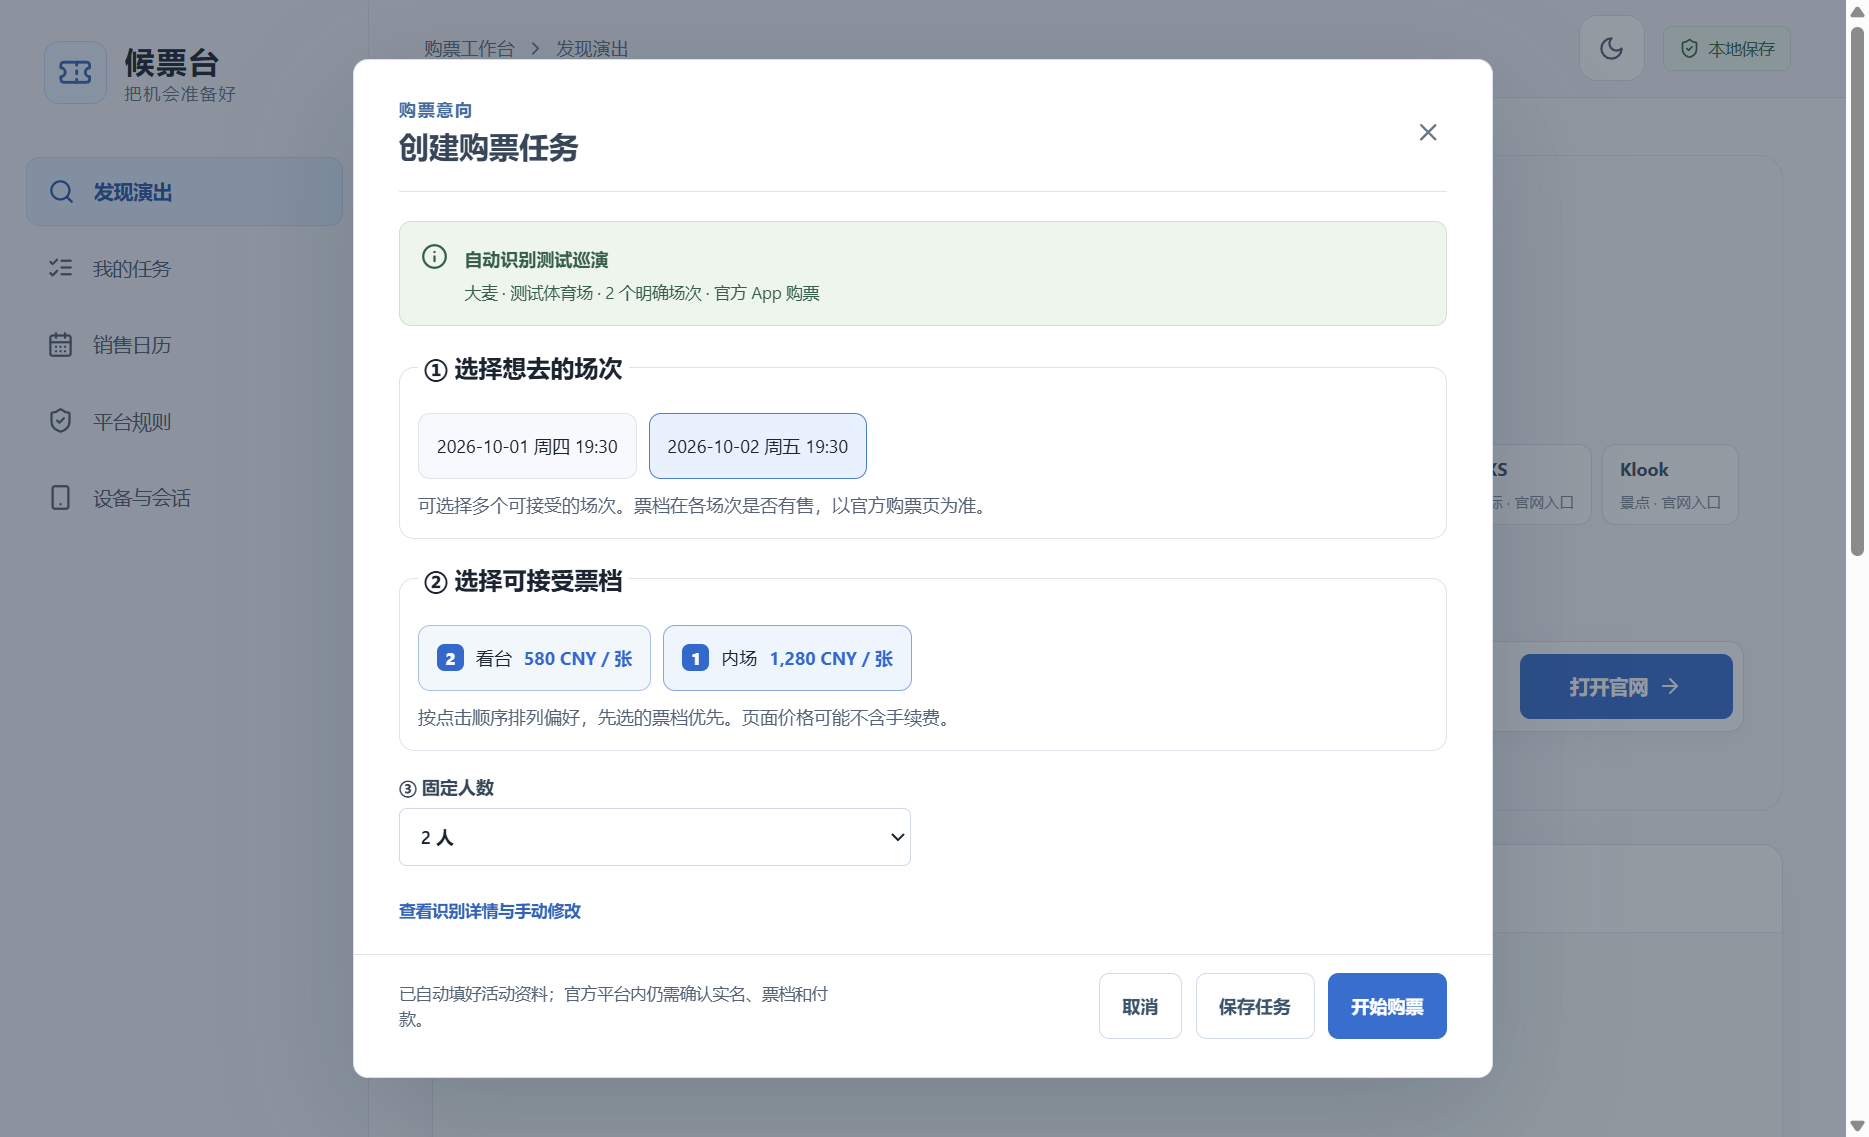
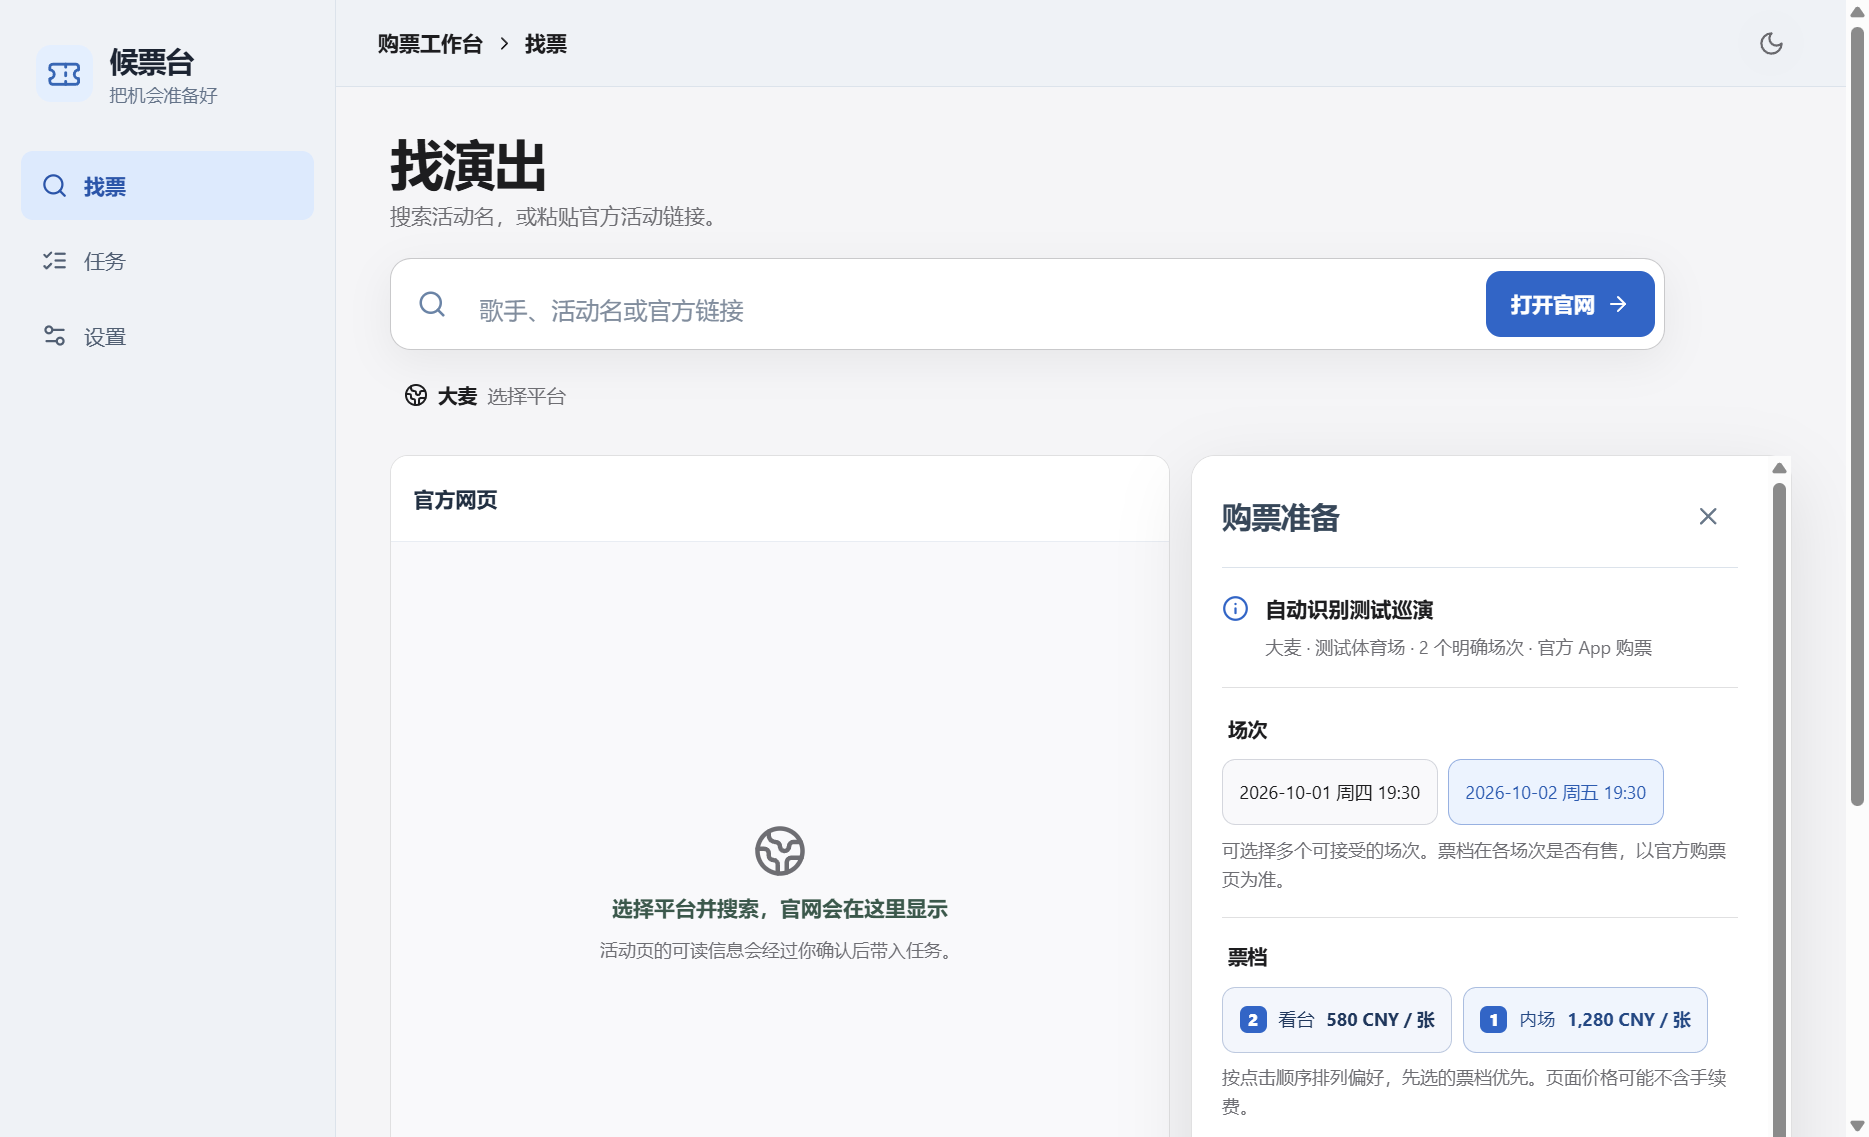
release: complete simplified ticket copilot UI

diff --git a/src/App.tsx b/src/App.tsx
@@ -1166,6 +1166,14 @@ function EventDetail({
   const pendingDeadline = pendingPaymentAttempts(event.attempts)
     .filter((attempt) => attempt.paymentDeadline)
     .sort((a, b) => a.paymentDeadline!.localeCompare(b.paymentDeadline!))[0]?.paymentDeadline;
+  const focusSale = event.opportunities
+    .filter((item) => item.status !== 'completed' && item.status !== 'missed')
+    .sort((a, b) => a.startsAt.localeCompare(b.startsAt))[0];
+  const focusDelta = focusSale ? Date.parse(focusSale.startsAt) - clock : null;
+  const focusMode = Boolean(
+    pendingDeadline ||
+    (focusDelta !== null && focusDelta >= -2 * 60 * 60_000 && focusDelta <= 7 * 24 * 60 * 60_000),
+  );
   const localZone = Intl.DateTimeFormat().resolvedOptions().timeZone;
   const platformGuidance = guide.find((item) => item.id === event.platform);
   const decision = chooseTier(
@@ -1234,7 +1242,7 @@ function EventDetail({
     }
   }
   return (
-    <>
+    <div className={`event-detail${focusMode ? ' focus-mode' : ''}`}>
       <button className="back-link" onClick={onBack}>
         ← 返回任务列表
       </button>
@@ -1285,6 +1293,45 @@ function EventDetail({
           </button>
         </div>
       </div>
+      {focusMode && (
+        <section className="focus-status" aria-label="购票专注状态">
+          <div>
+            <span>
+              {pendingDeadline ? '待支付' : focusDelta && focusDelta > 0 ? '距离开始' : '已开始'}
+            </span>
+            <strong>
+              {pendingDeadline
+                ? '已有订单需要处理'
+                : focusDelta && focusDelta > 0
+                  ? `${Math.floor(focusDelta / 86400000)}天 ${String(Math.floor((focusDelta % 86400000) / 3600000)).padStart(2, '0')}:${String(Math.floor((focusDelta % 3600000) / 60000)).padStart(2, '0')}`
+                  : `${focusSale ? saleLabels[focusSale.type] : '官方机会'}进行中`}
+            </strong>
+            <small>
+              {pendingDeadline
+                ? `以官方订单页倒计时为准 · 本机记录 ${timeText(pendingDeadline, localZone)}`
+                : focusSale
+                  ? `${saleLabels[focusSale.type]} · ${timeText(focusSale.startsAt, focusSale.timeZone)} ${focusSale.timeZone}`
+                  : '以官方页面状态为准'}
+            </small>
+          </div>
+          <button
+            className="button primary"
+            onClick={() => {
+              if (pendingDeadline) setDetailTab('results');
+              else if (eventChannel === 'app_required' && event.platform === 'damai')
+                void onLaunchDamai().then(setPhoneStatus);
+              else void onOpenInside(event.id, focusSale?.id);
+            }}
+          >
+            {pendingDeadline
+              ? '处理订单'
+              : eventChannel === 'app_required'
+                ? '前往官方 App'
+                : '前往官方网页'}
+            <ArrowRight size={16} />
+          </button>
+        </section>
+      )}
       {event.sessions?.length ? (
         <div className="saved-sessions" role="list" aria-label="已选择的演出场次">
           {event.sessions.map((session) => (
@@ -1786,6 +1833,6 @@ function EventDetail({
           )}
         </div>
       </div>
-    </>
+    </div>
   );
 }

diff --git a/src/apple-ui.css b/src/apple-ui.css
@@ -233,6 +233,60 @@ a:focus-visible {
   font-size: 14px;
 }
 
+.focus-status {
+  display: flex;
+  align-items: center;
+  justify-content: space-between;
+  gap: 22px;
+  margin: 0 0 22px;
+  padding: 18px 20px;
+  color: #fff;
+  background: #1d1d1f;
+  border: 1px solid rgba(255, 255, 255, 0.08);
+  border-radius: var(--app-radius-panel);
+  box-shadow: 0 8px 24px rgba(0, 0, 0, 0.1);
+}
+
+[data-theme='dark'] .focus-status {
+  background: #2c2c2e;
+}
+
+.focus-status > div {
+  display: grid;
+  min-width: 0;
+  gap: 3px;
+}
+
+.focus-status span {
+  color: rgba(255, 255, 255, 0.68);
+  font-size: 12px;
+  font-weight: 650;
+}
+
+.focus-status strong {
+  overflow: hidden;
+  color: #fff;
+  font-size: 19px;
+  letter-spacing: -0.02em;
+  text-overflow: ellipsis;
+  white-space: nowrap;
+}
+
+.focus-status small {
+  overflow: hidden;
+  color: rgba(255, 255, 255, 0.66);
+  font-size: 12px;
+  text-overflow: ellipsis;
+  white-space: nowrap;
+}
+
+.focus-status .button.primary {
+  flex: 0 0 auto;
+  color: #fff;
+  background: var(--app-accent-fill);
+  border-color: transparent;
+}
+
 .button {
   min-height: 44px;
   padding: 0 16px;
@@ -775,6 +829,20 @@ textarea::placeholder {
   .task-priority {
     align-items: stretch;
     flex-direction: column;
+  }
+
+  .focus-status {
+    align-items: stretch;
+    flex-direction: column;
+  }
+
+  .focus-status strong,
+  .focus-status small {
+    white-space: normal;
+  }
+
+  .focus-status .button {
+    width: 100%;
   }
 }
 

diff --git a/README.md b/README.md
@@ -1,6 +1,6 @@
 # 候票台
 
-候票台是一款中文购票准备工具，提供 **Windows 桌面版**和**本地网页版本**。它把一场演出的已确认场次、人数、可接受票档、官方销售机会、准备清单和订单结果放在同一个工作台，帮助你少漏掉有资格参加的机会，并在选票和付款时保持清楚的判断。
+候票台是一款中文购票准备工具，提供 **Windows 桌面版**和**本地网页版本**。新版只保留三个入口：**找票、任务、设置**。搜索活动或粘贴官方链接后，桌面版在同一窗口打开官网；识别到公开信息时，你只需点选场次、票档和人数，就能保存任务并进入官方购票流程。
 
 ![候票台工作台截图](docs/images/dashboard.png)
 
@@ -42,8 +42,8 @@ Vite 会自动打开浏览器；如果没有自动打开，请访问终端打印
 
 ## 如何使用
 
-1. 打开“发现演出”，直接在顶部输入歌手、活动名或粘贴官方活动链接；默认使用大麦，平台选择和地区筛选在搜索框下方。当前提供 20 个官网入口；大麦和 Ticketmaster 支持关键词直达搜索，其他渠道打开官网后由你站内查找，留空也能直接打开官网。票星球、纷玩岛等尚无经核实的通用网页首页入口，可从具体活动官方链接进入任务，或使用原生 App。
-2. 打开具体官方活动页后，桌面版会尝试自动读取公开活动信息；未出现识别结果时可点“读取活动信息”重试。大麦详情页可识别标题、场馆、明确列出的场次、单笔限购及公开价格范围；其他平台在页面含标准公开活动标记时，可带入明确的日期、票档名称和单价。候票台列出**当前来源明确给出的场次**，你点选想去的一个或多个场次；有逐档名称与单价时，再按偏好点选票档、选人数，点击“开始购票”保存任务并打开本场官方入口。平台、场馆、来源和核实日期自动带入；没有额外的预算输入，也不设置隐藏的金额上限。旧版任务仍可读取。只有价格范围而无逐档价格时，界面会明确提示，**不会**把范围上下限冒充票档；App 专属项目可尝试打开手机官方 App 查看票档，不能从网页推断 App 内所有可买票位。软件不会把日期范围猜成具体日期，也不自动推断不明确的所在地时区；无法确定时，仍需核对活动时区。
+1. 打开“找票”，输入歌手、活动名或粘贴官方活动链接。默认使用大麦；点击平台按钮可切换当前提供的 20 个官网入口。大麦和 Ticketmaster 支持关键词直达搜索，其他渠道会在窗口内打开官网供你站内查找。票星球、纷玩岛等尚无经核实的通用网页首页入口，可从具体活动官方链接进入，或使用原生 App。
+2. 打开具体官方活动页后，桌面版会尝试读取公开活动信息；未出现识别结果时可点“读取活动信息”重试。大麦详情页可识别标题、场馆、明确列出的场次、单笔限购及公开价格范围；其他平台在页面含标准公开活动标记时，可带入明确的日期、票档名称和单价。右侧“购票准备”只要求你选择场次、按偏好点选票档并选人数；点击“准备并打开官方购票”保存任务并进入本场官方入口。平台、场馆、来源和核实日期自动带入；没有预算输入，也不设置隐藏的金额上限。只有价格范围而无逐档价格时，界面会明确提示，**不会**把范围上下限冒充票档；App 专属项目可尝试打开手机官方 App 查看票档，不能从网页推断 App 内所有可买票位。软件不会把日期范围猜成具体日期，也不自动推断不明确的所在地时区；无法确定时，仍需核对活动时区。
 3. 从官方公告录入优先购、公开销售、正式补票、候补或邀请机会，写明资格、开始与截止时间、活动所在地时区和来源。添加机会时可展开“粘贴公告，辅助提取时间”：软件只列出含完整年份的日期与 24 小时时间，须由你选定正确的开售时间并核对原文后保存；粘贴内容不会写入任务。每次参与前用“核对来源 / 核对公告”打开原文，确认时间或资格是否变更。
 4. 为任务及每条销售机会核对“购票渠道”：官方网页可购票、仅官方 App 购票，或暂未核实。大麦公开项目页若显示“该渠道不支持购买”，建任务时会预选 App 专属，仍请按该场当前公告确认。开售前在实际购票的官方网页或 App 中确认登录状态，并在原平台登记实名观演人。桌面版可通过已授权的 Android USB 连接打开大麦 App；其他 App 专属渠道目前提示手动打开。启动 App 不代表能直达具体场次，需要在 App 内定位。候票台不代填密码、证件号或支付资料。桌面版运行时会针对已录入机会发出阶段提醒；关闭后不会继续提醒。
 5. 在官方页面人工判断票档与最终总价。状态不明时不要误认为售罄；已有有效订单时优先完成付款，不重复提交。
@@ -51,9 +51,9 @@ Vite 会自动打开浏览器；如果没有自动打开，请访问终端打印
 
 例如深圳站邓紫棋项目的[大麦公开页](https://detail.damai.cn/item.htm?id=1052123401368)在退票规则中明确列出 9 个 19:00 场次，但网页购票状态要求使用大麦 App，且只给出 ¥380–¥1680 的范围。候票台能显示**核实的 9 个场次**，但不能凭价格范围补造票档。此时点击“打开大麦 App 查看票档”，在原平台查看该场实际票档和完成购买；由于网页缺少逐档信息，不会创建一个伪装为已选好票档的任务。该项目页面还提示不支持自主选座，因此不能提供真实座位点选。
 
-手机参与时，在“设备与会话”确认 Android 已授权，再从任务打开大麦原生 App；目前无法保证从网页直达具体活动。请在 App 内搜索活动，核对场次、票档、实名观演人与最终结算金额，按官方排队、下单和付款流程完成。桌面任务负责展示你选好的条件与销售机会提醒，手机上的账号登录、人员登记和支付始终留在原平台。iPhone 不支持 ADB，需手动打开相应官方 App。
+手机参与时，在“设置 → 手机与数据”确认 Android 已授权，再从任务打开大麦原生 App；目前无法保证从网页直达具体活动。请在 App 内搜索活动，核对场次、票档、实名观演人与最终结算金额，按官方排队、下单和付款流程完成。桌面任务负责展示你选好的条件与销售机会提醒，手机上的账号登录、人员登记和支付始终留在原平台。iPhone 不支持 ADB，需手动打开相应官方 App。
 
-首页“下一步”会根据已录入的销售机会、准备项和订单阶段，给每个任务标出一个当前动作并直达相应步骤。建议只使用你填写且已核实的信息；它不读取实时库存，也不是抢票概率评分。平台规则页提供与演出发现、原生票务和网页监控工具的对照，详细依据见[同类工具对照与升级方向](docs/同类工具对照与升级方向.md)。
+“任务”会根据已录入的销售机会、准备项和订单阶段，只突出一个当前动作并直达相应步骤；临近开售或出现待支付订单时，详情页进入专注模式，把倒计时和官方入口放在最前面。“设置 → 平台说明”提供演出发现、原生票务和网页监控工具的对照。它不读取实时库存，也不是抢票概率评分，详细依据见[同类工具对照与升级方向](docs/同类工具对照与升级方向.md)。
 
 内置网页仅供桌面版使用：发现与已建任务的官网均显示在主窗口的平台标签页，切换平台时保留各自的网页历史和独立登录会话。从任务打开时，页面上方固定显示人数和票档，并可一键返回任务。再次打开同一任务会复用该平台标签，不主动刷新排队会话。进入排队或结账后，请遵守平台规则，不要随意切换、关闭或刷新当前页面。标记为 App 专属的销售，网页入口只作为公告核对，不会把网页链接当作手机购票入口。普通 HTTPS 链接在 Android 上可能打开浏览器，并不保证跳进票务 App。HTTPS 登录跳转会尝试在当前标签继续；如平台限制内置浏览器或依赖独立弹窗，可从工具栏把当前页交给系统浏览器，或改用官方 App，并在官方页面核对订单。系统浏览器与内置网页的登录会话不共享。USB 连接诊断、Android 官方链接发送和 iPhone 支持边界见[交互与设备适配](docs/交互与设备适配.md)。
 
